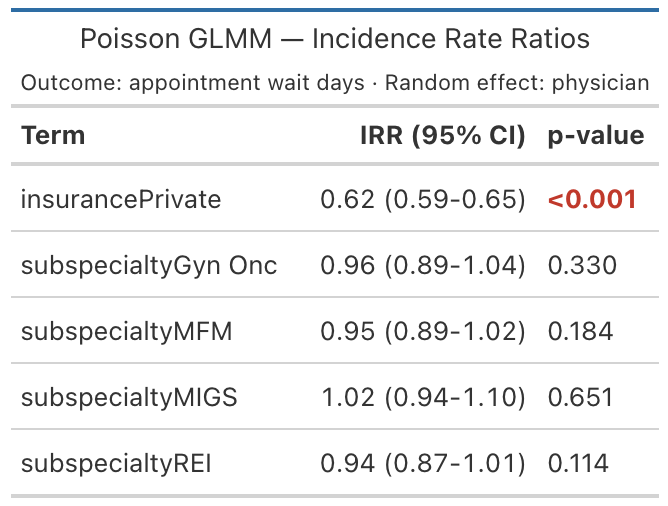
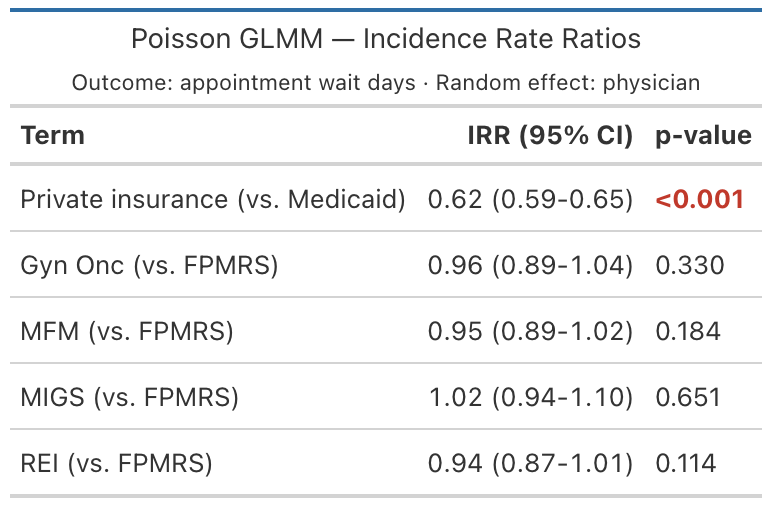
Deploying to gh-pages from @ mufflyt/mysterycall@ee54f1c8966e3c9ff9bbe7b6909bf1fd007aee08 🚀

diff --git a/reference/mysterycall_progress_summary.html b/reference/mysterycall_progress_summary.html
@@ -99,16 +99,16 @@
     <h2 id="ref-examples">Examples<a class="anchor" aria-label="anchor" href="#ref-examples"></a></h2>
     <div class="sourceCode"><pre class="sourceCode r"><code><span class="r-in"><span><span class="va">tr</span> <span class="op">&lt;-</span> <span class="fu"><a href="mysterycall_progress_tracker.html">mysterycall_progress_tracker</a></span><span class="op">(</span><span class="fu"><a href="https://rdrr.io/r/base/c.html" class="external-link">c</a></span><span class="op">(</span><span class="st">"Geocode"</span>, <span class="st">"Validate"</span><span class="op">)</span>, update_every <span class="op">=</span> <span class="fl">1e9</span><span class="op">)</span></span></span>
 <span class="r-in"><span><span class="fu"><a href="mysterycall_progress_start.html">mysterycall_progress_start</a></span><span class="op">(</span><span class="va">tr</span>, <span class="st">"Geocode"</span><span class="op">)</span></span></span>
-<span class="r-msg co"><span class="r-pr">#&gt;</span> [17:38:33] Started Geocode</span>
-<span class="r-msg co"><span class="r-pr">#&gt;</span> [17:38:33] Progress: 0/2 steps complete (0.0%)</span>
+<span class="r-msg co"><span class="r-pr">#&gt;</span> [17:50:22] Started Geocode</span>
+<span class="r-msg co"><span class="r-pr">#&gt;</span> [17:50:22] Progress: 0/2 steps complete (0.0%)</span>
 <span class="r-in"><span><span class="fu"><a href="mysterycall_progress_finish.html">mysterycall_progress_finish</a></span><span class="op">(</span><span class="va">tr</span>, <span class="st">"Geocode"</span>, score <span class="op">=</span> <span class="fl">0.95</span><span class="op">)</span></span></span>
-<span class="r-msg co"><span class="r-pr">#&gt;</span> [17:38:33] Completed Geocode (high)</span>
-<span class="r-msg co"><span class="r-pr">#&gt;</span> [17:38:33] Progress: 1/2 steps complete (50.0%)</span>
+<span class="r-msg co"><span class="r-pr">#&gt;</span> [17:50:22] Completed Geocode (high)</span>
+<span class="r-msg co"><span class="r-pr">#&gt;</span> [17:50:22] Progress: 1/2 steps complete (50.0%)</span>
 <span class="r-in"><span><span class="fu">mysterycall_progress_summary</span><span class="op">(</span><span class="va">tr</span><span class="op">)</span></span></span>
 <span class="r-out co"><span class="r-pr">#&gt;</span> <span style="color: #949494;"># A tibble: 2 × 6</span></span>
 <span class="r-out co"><span class="r-pr">#&gt;</span>   step     status    started_at          finished_at         quality note </span>
 <span class="r-out co"><span class="r-pr">#&gt;</span>   <span style="color: #949494; font-style: italic;">&lt;chr&gt;</span>    <span style="color: #949494; font-style: italic;">&lt;fct&gt;</span>     <span style="color: #949494; font-style: italic;">&lt;dttm&gt;</span>              <span style="color: #949494; font-style: italic;">&lt;dttm&gt;</span>              <span style="color: #949494; font-style: italic;">&lt;chr&gt;</span>   <span style="color: #949494; font-style: italic;">&lt;chr&gt;</span></span>
-<span class="r-out co"><span class="r-pr">#&gt;</span> <span style="color: #BCBCBC;">1</span> Geocode  completed 2026-05-10 <span style="color: #949494;">17:38:33</span> 2026-05-10 <span style="color: #949494;">17:38:33</span> high    <span style="color: #BB0000;">NA</span>   </span>
+<span class="r-out co"><span class="r-pr">#&gt;</span> <span style="color: #BCBCBC;">1</span> Geocode  completed 2026-05-10 <span style="color: #949494;">17:50:22</span> 2026-05-10 <span style="color: #949494;">17:50:22</span> high    <span style="color: #BB0000;">NA</span>   </span>
 <span class="r-out co"><span class="r-pr">#&gt;</span> <span style="color: #BCBCBC;">2</span> Validate pending   <span style="color: #BB0000;">NA</span>                  <span style="color: #BB0000;">NA</span>                  <span style="color: #BB0000;">NA</span>      <span style="color: #BB0000;">NA</span>   </span>
 </code></pre></div>
     </div>

diff --git a/reference/mysterycall_progress_tracker.html b/reference/mysterycall_progress_tracker.html
@@ -100,16 +100,16 @@ workflows.</p>
     <h2 id="ref-examples">Examples<a class="anchor" aria-label="anchor" href="#ref-examples"></a></h2>
     <div class="sourceCode"><pre class="sourceCode r"><code><span class="r-in"><span><span class="va">tracker</span> <span class="op">&lt;-</span> <span class="fu">mysterycall_progress_tracker</span><span class="op">(</span><span class="fu"><a href="https://rdrr.io/r/base/c.html" class="external-link">c</a></span><span class="op">(</span><span class="st">"Geocode"</span>, <span class="st">"Validate"</span><span class="op">)</span>, update_every <span class="op">=</span> <span class="fl">10</span><span class="op">)</span></span></span>
 <span class="r-in"><span><span class="fu"><a href="mysterycall_progress_start.html">mysterycall_progress_start</a></span><span class="op">(</span><span class="va">tracker</span>, <span class="st">"Geocode"</span><span class="op">)</span></span></span>
-<span class="r-msg co"><span class="r-pr">#&gt;</span> [17:38:33] Started Geocode</span>
-<span class="r-msg co"><span class="r-pr">#&gt;</span> [17:38:33] Progress: 0/2 steps complete (0.0%)</span>
+<span class="r-msg co"><span class="r-pr">#&gt;</span> [17:50:22] Started Geocode</span>
+<span class="r-msg co"><span class="r-pr">#&gt;</span> [17:50:22] Progress: 0/2 steps complete (0.0%)</span>
 <span class="r-in"><span><span class="fu"><a href="mysterycall_progress_finish.html">mysterycall_progress_finish</a></span><span class="op">(</span><span class="va">tracker</span>, <span class="st">"Geocode"</span>, score <span class="op">=</span> <span class="fl">0.92</span><span class="op">)</span></span></span>
-<span class="r-msg co"><span class="r-pr">#&gt;</span> [17:38:33] Completed Geocode (high)</span>
-<span class="r-msg co"><span class="r-pr">#&gt;</span> [17:38:33] Progress: 1/2 steps complete (50.0%)</span>
+<span class="r-msg co"><span class="r-pr">#&gt;</span> [17:50:22] Completed Geocode (high)</span>
+<span class="r-msg co"><span class="r-pr">#&gt;</span> [17:50:22] Progress: 1/2 steps complete (50.0%)</span>
 <span class="r-in"><span><span class="fu"><a href="mysterycall_progress_summary.html">mysterycall_progress_summary</a></span><span class="op">(</span><span class="va">tracker</span><span class="op">)</span></span></span>
 <span class="r-out co"><span class="r-pr">#&gt;</span> <span style="color: #949494;"># A tibble: 2 × 6</span></span>
 <span class="r-out co"><span class="r-pr">#&gt;</span>   step     status    started_at          finished_at         quality note </span>
 <span class="r-out co"><span class="r-pr">#&gt;</span>   <span style="color: #949494; font-style: italic;">&lt;chr&gt;</span>    <span style="color: #949494; font-style: italic;">&lt;fct&gt;</span>     <span style="color: #949494; font-style: italic;">&lt;dttm&gt;</span>              <span style="color: #949494; font-style: italic;">&lt;dttm&gt;</span>              <span style="color: #949494; font-style: italic;">&lt;chr&gt;</span>   <span style="color: #949494; font-style: italic;">&lt;chr&gt;</span></span>
-<span class="r-out co"><span class="r-pr">#&gt;</span> <span style="color: #BCBCBC;">1</span> Geocode  completed 2026-05-10 <span style="color: #949494;">17:38:33</span> 2026-05-10 <span style="color: #949494;">17:38:33</span> high    <span style="color: #BB0000;">NA</span>   </span>
+<span class="r-out co"><span class="r-pr">#&gt;</span> <span style="color: #BCBCBC;">1</span> Geocode  completed 2026-05-10 <span style="color: #949494;">17:50:22</span> 2026-05-10 <span style="color: #949494;">17:50:22</span> high    <span style="color: #BB0000;">NA</span>   </span>
 <span class="r-out co"><span class="r-pr">#&gt;</span> <span style="color: #BCBCBC;">2</span> Validate pending   <span style="color: #BB0000;">NA</span>                  <span style="color: #BB0000;">NA</span>                  <span style="color: #BB0000;">NA</span>      <span style="color: #BB0000;">NA</span>   </span>
 </code></pre></div>
     </div>

diff --git a/reference/mysterycall_progress_finish.html b/reference/mysterycall_progress_finish.html
@@ -123,11 +123,11 @@ provided.</p></dd>
     <h2 id="ref-examples">Examples<a class="anchor" aria-label="anchor" href="#ref-examples"></a></h2>
     <div class="sourceCode"><pre class="sourceCode r"><code><span class="r-in"><span><span class="va">tr</span> <span class="op">&lt;-</span> <span class="fu"><a href="mysterycall_progress_tracker.html">mysterycall_progress_tracker</a></span><span class="op">(</span><span class="fu"><a href="https://rdrr.io/r/base/c.html" class="external-link">c</a></span><span class="op">(</span><span class="st">"Geocode"</span><span class="op">)</span>, update_every <span class="op">=</span> <span class="fl">1e9</span><span class="op">)</span></span></span>
 <span class="r-in"><span><span class="fu"><a href="mysterycall_progress_start.html">mysterycall_progress_start</a></span><span class="op">(</span><span class="va">tr</span>, <span class="st">"Geocode"</span><span class="op">)</span></span></span>
-<span class="r-msg co"><span class="r-pr">#&gt;</span> [17:38:22] Started Geocode</span>
-<span class="r-msg co"><span class="r-pr">#&gt;</span> [17:38:22] Progress: 0/1 steps complete (0.0%)</span>
+<span class="r-msg co"><span class="r-pr">#&gt;</span> [17:50:11] Started Geocode</span>
+<span class="r-msg co"><span class="r-pr">#&gt;</span> [17:50:11] Progress: 0/1 steps complete (0.0%)</span>
 <span class="r-in"><span><span class="fu">mysterycall_progress_finish</span><span class="op">(</span><span class="va">tr</span>, <span class="st">"Geocode"</span>, score <span class="op">=</span> <span class="fl">0.92</span><span class="op">)</span></span></span>
-<span class="r-msg co"><span class="r-pr">#&gt;</span> [17:38:22] Completed Geocode (high)</span>
-<span class="r-msg co"><span class="r-pr">#&gt;</span> [17:38:22] Progress: 1/1 steps complete (100.0%)</span>
+<span class="r-msg co"><span class="r-pr">#&gt;</span> [17:50:11] Completed Geocode (high)</span>
+<span class="r-msg co"><span class="r-pr">#&gt;</span> [17:50:11] Progress: 1/1 steps complete (100.0%)</span>
 </code></pre></div>
     </div>
   </main><aside class="col-md-3"><nav id="toc" aria-label="Table of contents"><h2>On this page</h2>

diff --git a/reference/mysterycall_tracker_fail.html b/reference/mysterycall_tracker_fail.html
@@ -107,11 +107,11 @@
     <h2 id="ref-examples">Examples<a class="anchor" aria-label="anchor" href="#ref-examples"></a></h2>
     <div class="sourceCode"><pre class="sourceCode r"><code><span class="r-in"><span><span class="va">tr</span> <span class="op">&lt;-</span> <span class="fu"><a href="mysterycall_progress_tracker.html">mysterycall_progress_tracker</a></span><span class="op">(</span><span class="fu"><a href="https://rdrr.io/r/base/c.html" class="external-link">c</a></span><span class="op">(</span><span class="st">"Geocode"</span><span class="op">)</span>, update_every <span class="op">=</span> <span class="fl">1e9</span><span class="op">)</span></span></span>
 <span class="r-in"><span><span class="fu"><a href="mysterycall_progress_start.html">mysterycall_progress_start</a></span><span class="op">(</span><span class="va">tr</span>, <span class="st">"Geocode"</span><span class="op">)</span></span></span>
-<span class="r-msg co"><span class="r-pr">#&gt;</span> [17:38:42] Started Geocode</span>
-<span class="r-msg co"><span class="r-pr">#&gt;</span> [17:38:42] Progress: 0/1 steps complete (0.0%)</span>
+<span class="r-msg co"><span class="r-pr">#&gt;</span> [17:50:31] Started Geocode</span>
+<span class="r-msg co"><span class="r-pr">#&gt;</span> [17:50:31] Progress: 0/1 steps complete (0.0%)</span>
 <span class="r-in"><span><span class="fu">mysterycall_tracker_fail</span><span class="op">(</span><span class="va">tr</span>, <span class="st">"Geocode"</span>, reason <span class="op">=</span> <span class="st">"API timeout"</span><span class="op">)</span></span></span>
-<span class="r-msg co"><span class="r-pr">#&gt;</span> [17:38:42] Failed Geocode: API timeout</span>
-<span class="r-msg co"><span class="r-pr">#&gt;</span> [17:38:42] Progress: 0/1 steps complete (0.0%)</span>
+<span class="r-msg co"><span class="r-pr">#&gt;</span> [17:50:31] Failed Geocode: API timeout</span>
+<span class="r-msg co"><span class="r-pr">#&gt;</span> [17:50:31] Progress: 0/1 steps complete (0.0%)</span>
 </code></pre></div>
     </div>
   </main><aside class="col-md-3"><nav id="toc" aria-label="Table of contents"><h2>On this page</h2>

diff --git a/reference/mysterycall_progress_start.html b/reference/mysterycall_progress_start.html
@@ -107,8 +107,8 @@
     <h2 id="ref-examples">Examples<a class="anchor" aria-label="anchor" href="#ref-examples"></a></h2>
     <div class="sourceCode"><pre class="sourceCode r"><code><span class="r-in"><span><span class="va">tr</span> <span class="op">&lt;-</span> <span class="fu"><a href="mysterycall_progress_tracker.html">mysterycall_progress_tracker</a></span><span class="op">(</span><span class="fu"><a href="https://rdrr.io/r/base/c.html" class="external-link">c</a></span><span class="op">(</span><span class="st">"Geocode"</span>, <span class="st">"Validate"</span><span class="op">)</span>, update_every <span class="op">=</span> <span class="fl">1e9</span><span class="op">)</span></span></span>
 <span class="r-in"><span><span class="fu">mysterycall_progress_start</span><span class="op">(</span><span class="va">tr</span>, <span class="st">"Geocode"</span><span class="op">)</span></span></span>
-<span class="r-msg co"><span class="r-pr">#&gt;</span> [17:38:33] Started Geocode</span>
-<span class="r-msg co"><span class="r-pr">#&gt;</span> [17:38:33] Progress: 0/2 steps complete (0.0%)</span>
+<span class="r-msg co"><span class="r-pr">#&gt;</span> [17:50:22] Started Geocode</span>
+<span class="r-msg co"><span class="r-pr">#&gt;</span> [17:50:22] Progress: 0/2 steps complete (0.0%)</span>
 </code></pre></div>
     </div>
   </main><aside class="col-md-3"><nav id="toc" aria-label="Table of contents"><h2>On this page</h2>

diff --git a/reference/mysterycall_create_formula.html b/reference/mysterycall_create_formula.html
@@ -109,7 +109,7 @@ response variable, and optional random effect.</p>
 <span class="r-msg co"><span class="r-pr">#&gt;</span> Final formula object created: days ~ age + (1 | name)</span>
 <span class="r-in"><span><span class="va">formula</span></span></span>
 <span class="r-out co"><span class="r-pr">#&gt;</span> days ~ age + (1 | name)</span>
-<span class="r-out co"><span class="r-pr">#&gt;</span> &lt;environment: 0x557591418bd8&gt;</span>
+<span class="r-out co"><span class="r-pr">#&gt;</span> &lt;environment: 0x5645a9003f20&gt;</span>
 <span class="r-in"><span></span></span>
 </code></pre></div>
     </div>

diff --git a/reference/mysterycall_log_save.html b/reference/mysterycall_log_save.html
@@ -102,7 +102,7 @@
     <div class="section level2">
     <h2 id="ref-examples">Examples<a class="anchor" aria-label="anchor" href="#ref-examples"></a></h2>
     <div class="sourceCode"><pre class="sourceCode r"><code><span class="r-in"><span><span class="fu">mysterycall_log_save</span><span class="op">(</span><span class="fu"><a href="https://rdrr.io/r/base/tempfile.html" class="external-link">tempfile</a></span><span class="op">(</span>fileext <span class="op">=</span> <span class="st">".csv"</span><span class="op">)</span>, n_rows <span class="op">=</span> <span class="fl">42</span><span class="op">)</span></span></span>
-<span class="r-msg co"><span class="r-pr">#&gt;</span>   💾 Saved to: /tmp/RtmpT5Aoj4/file239d64074de9.csv (42 rows)</span>
+<span class="r-msg co"><span class="r-pr">#&gt;</span>   💾 Saved to: /tmp/RtmpzmcL6l/file23894b2dd582.csv (42 rows)</span>
 </code></pre></div>
     </div>
   </main><aside class="col-md-3"><nav id="toc" aria-label="Table of contents"><h2>On this page</h2>

diff --git a/reference/mysterycall_log_step.html b/reference/mysterycall_log_step.html
@@ -109,7 +109,7 @@ formatted step header to the console.</p>
     <div class="sourceCode"><pre class="sourceCode r"><code><span class="r-in"><span><span class="fu"><a href="mysterycall_workflow_start.html">mysterycall_workflow_start</a></span><span class="op">(</span><span class="st">"Demo"</span>, total_steps <span class="op">=</span> <span class="fl">2</span><span class="op">)</span></span></span>
 <span class="r-msg co"><span class="r-pr">#&gt;</span> ============================================================</span>
 <span class="r-msg co"><span class="r-pr">#&gt;</span>   Demo</span>
-<span class="r-msg co"><span class="r-pr">#&gt;</span>   Started: 2026-05-10 17:37:55</span>
+<span class="r-msg co"><span class="r-pr">#&gt;</span>   Started: 2026-05-10 17:49:44</span>
 <span class="r-msg co"><span class="r-pr">#&gt;</span>   Total Steps: 2</span>
 <span class="r-msg co"><span class="r-pr">#&gt;</span> ============================================================</span>
 <span class="r-msg co"><span class="r-pr">#&gt;</span> </span>

diff --git a/reference/mysterycall_progress_bar.html b/reference/mysterycall_progress_bar.html
@@ -119,7 +119,7 @@ Uses the cli package for cross-platform compatibility and beautiful output.</p>
 <span class="r-msg co"><span class="r-pr">#&gt;</span>   Progress: 10/100 (10%) - ETA: 9.0s</span>
 <span class="r-msg co"><span class="r-pr">#&gt;</span>   Progress: 20/100 (20%) - ETA: 8.0s</span>
 <span class="r-msg co"><span class="r-pr">#&gt;</span>   Progress: 30/100 (30%) - ETA: 7.0s</span>
-<span class="r-msg co"><span class="r-pr">#&gt;</span>   Progress: 40/100 (40%) - ETA: 6.1s</span>
+<span class="r-msg co"><span class="r-pr">#&gt;</span>   Progress: 40/100 (40%) - ETA: 6.0s</span>
 <span class="r-msg co"><span class="r-pr">#&gt;</span>   Progress: 50/100 (50%) - ETA: 5.0s</span>
 <span class="r-msg co"><span class="r-pr">#&gt;</span>   Progress: 60/100 (60%) - ETA: 4.0s</span>
 <span class="r-msg co"><span class="r-pr">#&gt;</span>   Progress: 70/100 (70%) - ETA: 3.0s</span>

diff --git a/reference/mysterycall_tracker_update.html b/reference/mysterycall_tracker_update.html
@@ -104,7 +104,7 @@ even if the configured interval has not elapsed.</p></dd>
     <h2 id="ref-examples">Examples<a class="anchor" aria-label="anchor" href="#ref-examples"></a></h2>
     <div class="sourceCode"><pre class="sourceCode r"><code><span class="r-in"><span><span class="va">tr</span> <span class="op">&lt;-</span> <span class="fu"><a href="mysterycall_progress_tracker.html">mysterycall_progress_tracker</a></span><span class="op">(</span><span class="fu"><a href="https://rdrr.io/r/base/c.html" class="external-link">c</a></span><span class="op">(</span><span class="st">"Geocode"</span><span class="op">)</span>, update_every <span class="op">=</span> <span class="fl">1e9</span><span class="op">)</span></span></span>
 <span class="r-in"><span><span class="fu">mysterycall_tracker_update</span><span class="op">(</span><span class="va">tr</span>, force <span class="op">=</span> <span class="cn">TRUE</span><span class="op">)</span></span></span>
-<span class="r-msg co"><span class="r-pr">#&gt;</span> [17:38:42] Progress: 0/1 steps complete (0.0%)</span>
+<span class="r-msg co"><span class="r-pr">#&gt;</span> [17:50:31] Progress: 0/1 steps complete (0.0%)</span>
 </code></pre></div>
     </div>
   </main><aside class="col-md-3"><nav id="toc" aria-label="Table of contents"><h2>On this page</h2>

diff --git a/reference/mysterycall_workflow_start.html b/reference/mysterycall_workflow_start.html
@@ -109,7 +109,7 @@ workflow header to the console.</p>
     <div class="sourceCode"><pre class="sourceCode r"><code><span class="r-in"><span><span class="fu">mysterycall_workflow_start</span><span class="op">(</span><span class="st">"Demo Workflow"</span>, total_steps <span class="op">=</span> <span class="fl">3</span><span class="op">)</span></span></span>
 <span class="r-msg co"><span class="r-pr">#&gt;</span> ============================================================</span>
 <span class="r-msg co"><span class="r-pr">#&gt;</span>   Demo Workflow</span>
-<span class="r-msg co"><span class="r-pr">#&gt;</span>   Started: 2026-05-10 17:38:44</span>
+<span class="r-msg co"><span class="r-pr">#&gt;</span>   Started: 2026-05-10 17:50:34</span>
 <span class="r-msg co"><span class="r-pr">#&gt;</span>   Total Steps: 3</span>
 <span class="r-msg co"><span class="r-pr">#&gt;</span> ============================================================</span>
 <span class="r-msg co"><span class="r-pr">#&gt;</span> </span>

diff --git a/reference/mysterycall_progress_summary.md b/reference/mysterycall_progress_summary.md
@@ -43,15 +43,15 @@ Other logging utilities:
 ``` r
 tr <- mysterycall_progress_tracker(c("Geocode", "Validate"), update_every = 1e9)
 mysterycall_progress_start(tr, "Geocode")
-#> [17:38:33] Started Geocode
-#> [17:38:33] Progress: 0/2 steps complete (0.0%)
+#> [17:50:22] Started Geocode
+#> [17:50:22] Progress: 0/2 steps complete (0.0%)
 mysterycall_progress_finish(tr, "Geocode", score = 0.95)
-#> [17:38:33] Completed Geocode (high)
-#> [17:38:33] Progress: 1/2 steps complete (50.0%)
+#> [17:50:22] Completed Geocode (high)
+#> [17:50:22] Progress: 1/2 steps complete (50.0%)
 mysterycall_progress_summary(tr)
 #> # A tibble: 2 × 6
 #>   step     status    started_at          finished_at         quality note 
 #>   <chr>    <fct>     <dttm>              <dttm>              <chr>   <chr>
-#> 1 Geocode  completed 2026-05-10 17:38:33 2026-05-10 17:38:33 high    NA   
+#> 1 Geocode  completed 2026-05-10 17:50:22 2026-05-10 17:50:22 high    NA   
 #> 2 Validate pending   NA                  NA                  NA      NA   
 ```